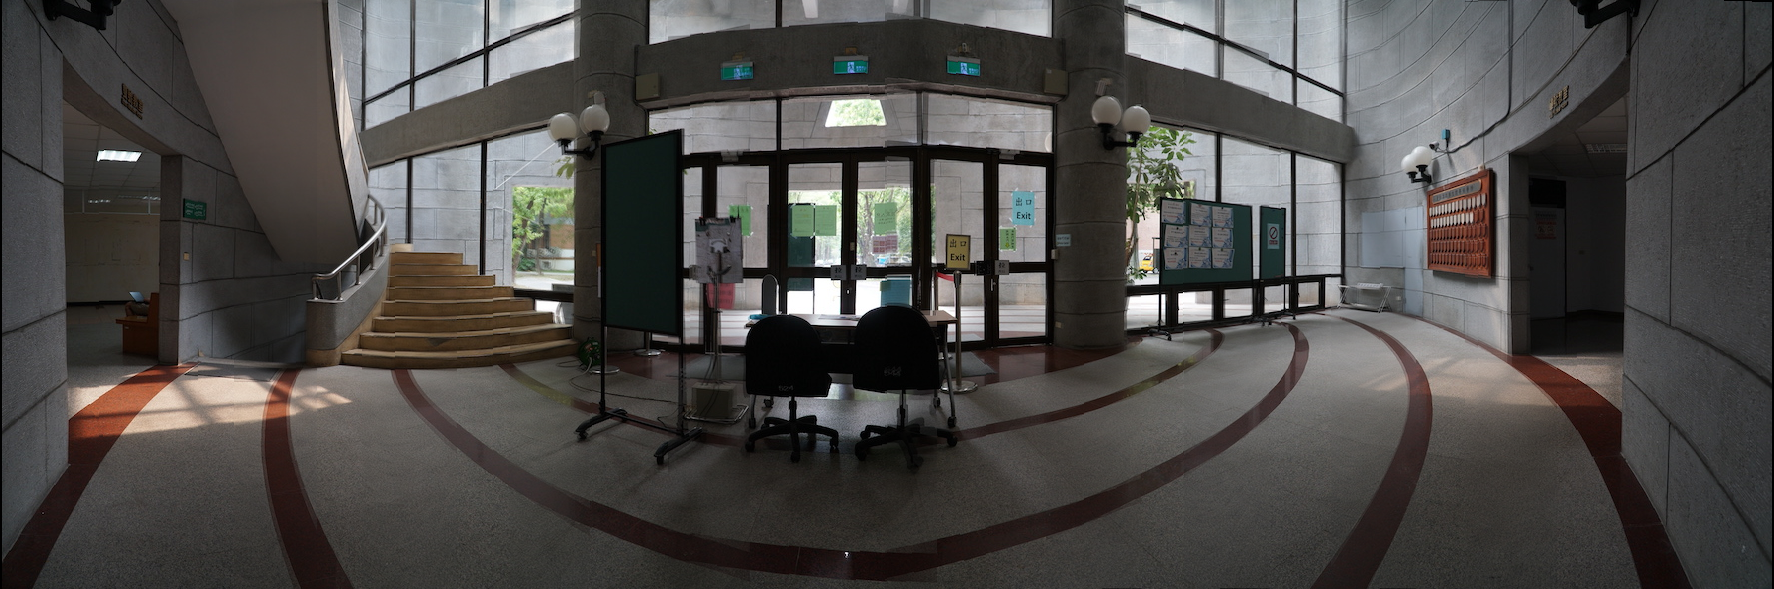
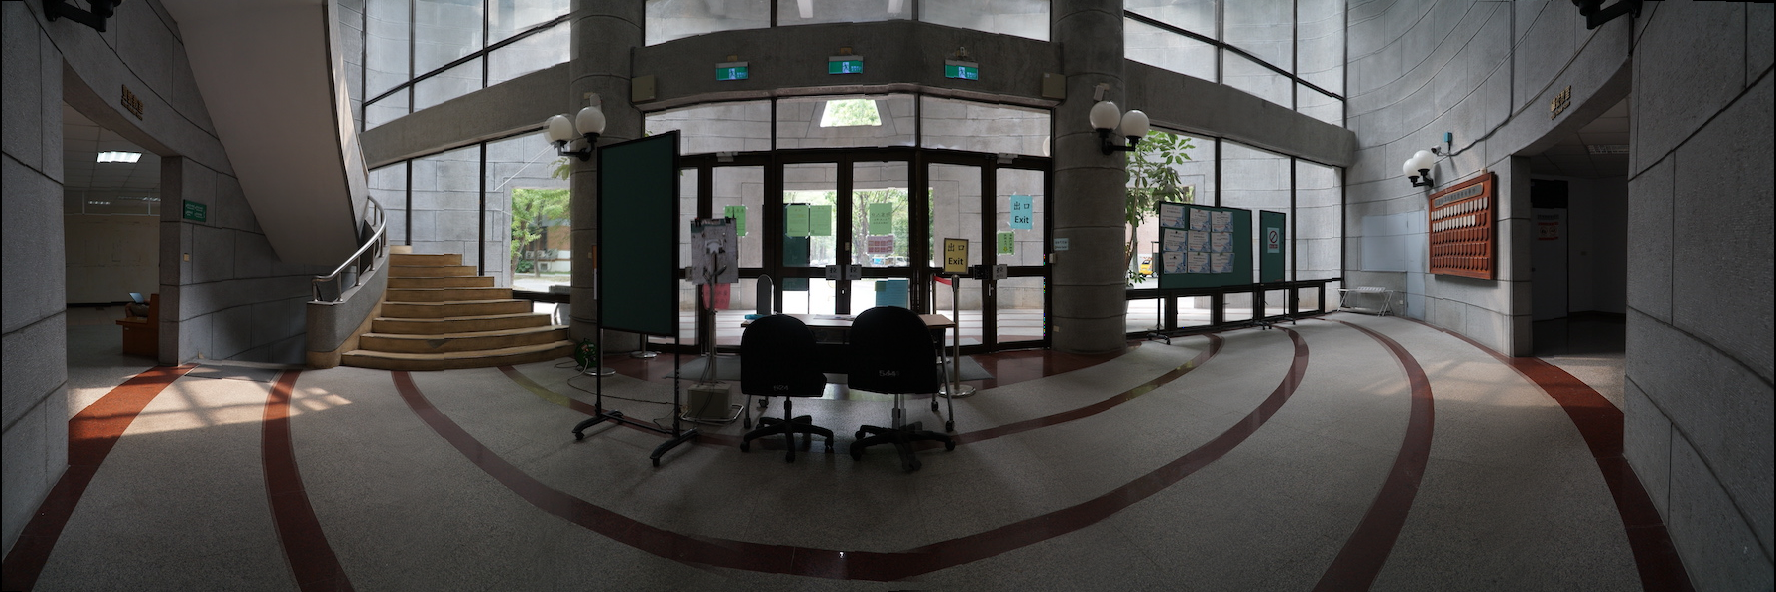
fix small error

diff --git a/code/stitching.py b/code/stitching.py
@@ -31,7 +31,7 @@ def cylindrical_projection(img, f):
 
     return projection
 
-def RANSEC(matched_pairs, k=100, threshold=20, n=2):
+def RANSEC(matched_pairs, k=100, threshold=20, n=1):
     best_offset = None
     max_c = -1
     matched_pairs = matched_pairs.tolist()
@@ -76,7 +76,8 @@ def merge_two_image(img1, img2, offset):
                 elif jj > gg * 2:
                     gamma = 1
                 else:
-                    gamma = jj/(w+offset[1])
+                    gamma = 3 * jj / (w + offset[1]) - 1
+                # gamma = jj/(w+offset[1])
                 i1 = ii
                 i2 = ii + offset[0]
                 try:
@@ -91,7 +92,8 @@ def merge_two_image(img1, img2, offset):
                 elif jj > gg * 2:
                     gamma = 1
                 else:
-                    gamma = jj/(w+offset[1])
+                    gamma = 3 * jj / (w + offset[1]) - 1
+                # gamma = jj/(w+offset[1])
                 i1 = ii - offset[0]
                 i2 = ii
                 try:

diff --git a/code/main.py b/code/main.py
@@ -30,5 +30,5 @@ if __name__ == '__main__':
 
     result_image = stitching.end_to_end_align(result_image, offset_y)
     result_image = stitching.auto_crop(result_image)
-    
+
     cv2.imwrite(args.output_image, result_image)
